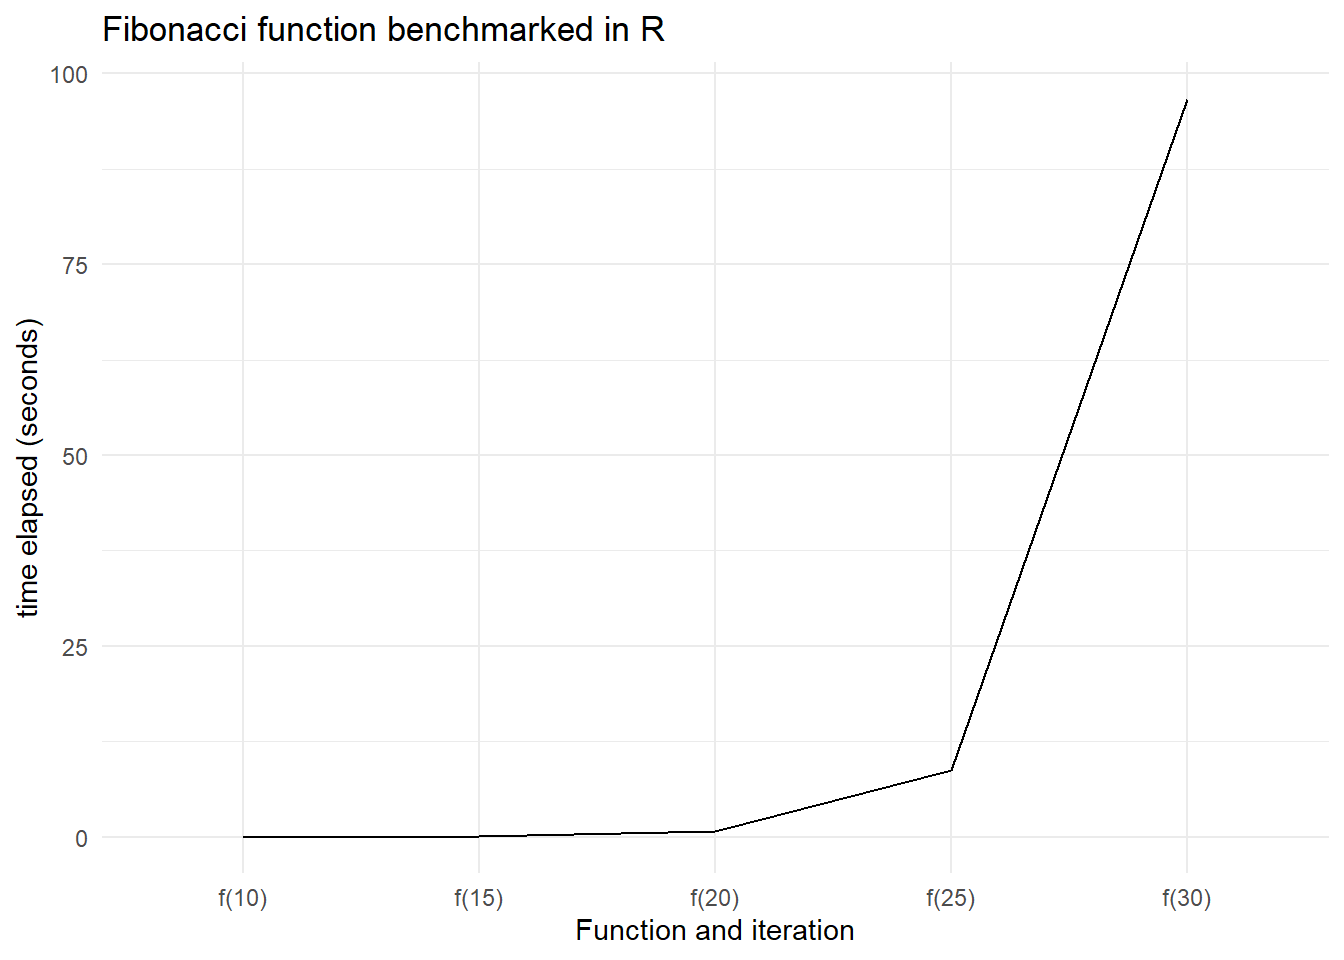
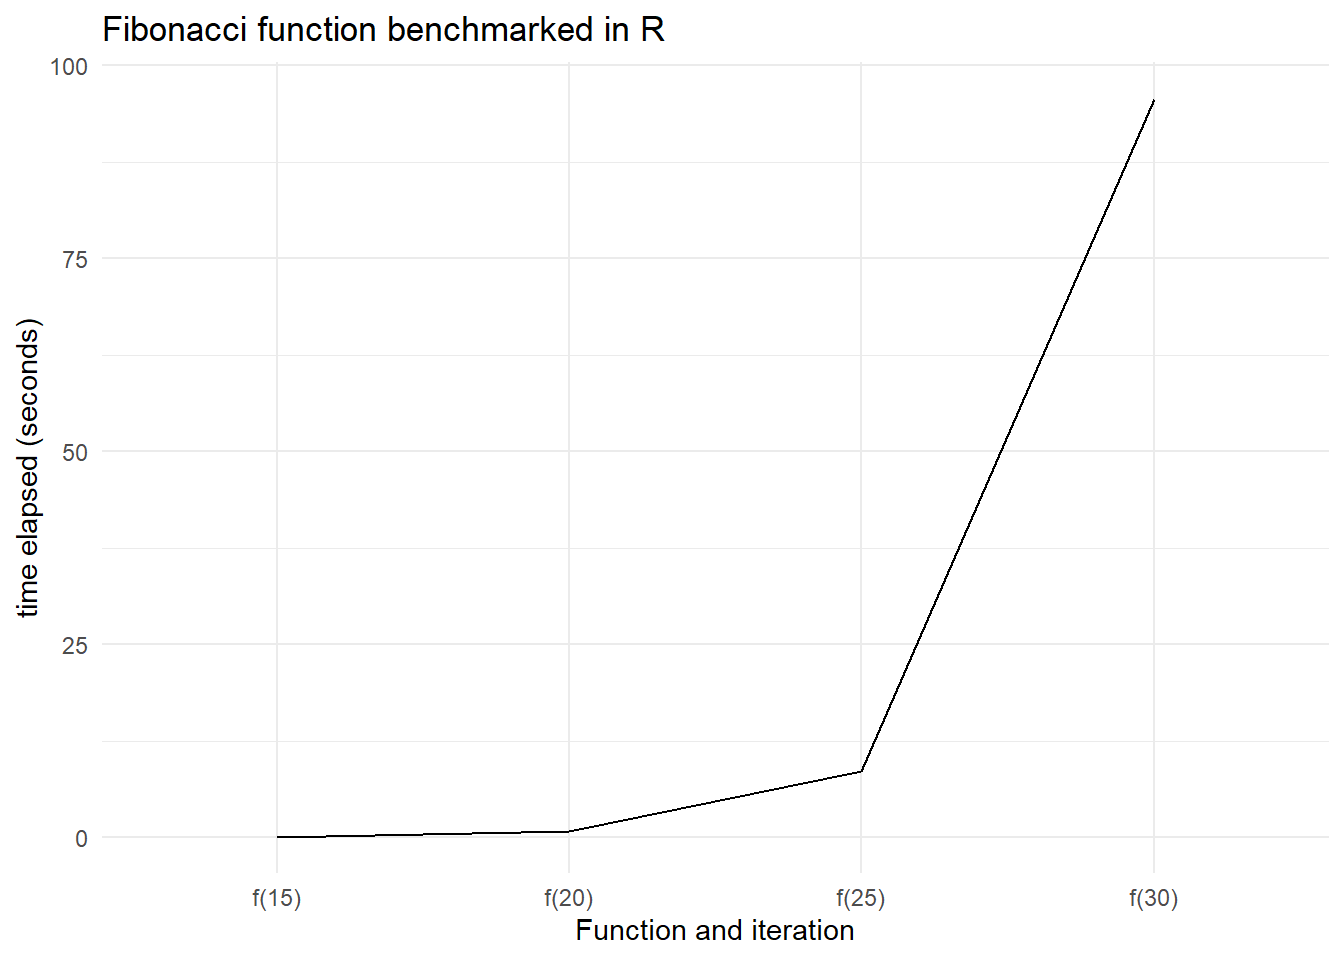
automated commit

diff --git a/public/2021/03/23/rcpp-integration/index.html b/public/2021/03/23/rcpp-integration/index.html
@@ -97,11 +97,11 @@ sapply(1:10, f)</code></pre>
 
 Rscores</code></pre>
 <pre><code>##    test replications elapsed relative
-## 1 f(10)          100    0.01        1
-## 2 f(15)          100    0.10       10
-## 3 f(20)          100    0.79       79
-## 4 f(25)          100    8.78      878
-## 5 f(30)          100   96.68     9668</code></pre>
+## 1 f(10)          100    0.00       NA
+## 2 f(15)          100    0.08       NA
+## 3 f(20)          100    0.76       NA
+## 4 f(25)          100    8.58       NA
+## 5 f(30)          100   95.69       NA</code></pre>
 <pre class="r"><code>p &lt;- Rscores %&gt;% 
   filter(elapsed&gt;0) %&gt;% 
   ggplot(aes(test,elapsed, group = 1))+
@@ -131,8 +131,8 @@ Cscores</code></pre>
 ## 1 g(10)          100    0.00       NA
 ## 2 g(15)          100    0.00       NA
 ## 3 g(20)          100    0.00       NA
-## 4 g(25)          100    0.01       NA
-## 5 g(30)          100    0.24       NA</code></pre>
+## 4 g(25)          100    0.03       NA
+## 5 g(30)          100    0.22       NA</code></pre>
 <pre class="r"><code>p &lt;- Cscores %&gt;% 
   ggplot(aes(test,elapsed, group = 1))+
   geom_line()+ theme_minimal()+
@@ -146,7 +146,7 @@ print(p)</code></pre>
 </div>
 <div id="conclusion" class="section level1">
 <h1>Conclusion</h1>
-<p>The speed in calculating the 30th iteration of the Fibonacci sequence within C++ (0.24 seconds) massively outperforms R (96.68 seconds).</p>
+<p>The speed in calculating the 30th iteration of the Fibonacci sequence within C++ (0.22 seconds) massively outperforms R (95.69 seconds).</p>
 <div id="pushing-c-further" class="section level2">
 <h2>Pushing C++ further</h2>
 <pre class="r"><code>Cscores &lt;- benchmark(g(10),g(15), g(20), g(25),g(30),g(35),g(40))[,1:4]

diff --git a/content/post/2021-03-23-rcpp-integration/index.html b/content/post/2021-03-23-rcpp-integration/index.html
@@ -29,11 +29,11 @@ sapply(1:10, f)</code></pre>
 
 Rscores</code></pre>
 <pre><code>##    test replications elapsed relative
-## 1 f(10)          100    0.01        1
-## 2 f(15)          100    0.10       10
-## 3 f(20)          100    0.79       79
-## 4 f(25)          100    8.78      878
-## 5 f(30)          100   96.68     9668</code></pre>
+## 1 f(10)          100    0.00       NA
+## 2 f(15)          100    0.08       NA
+## 3 f(20)          100    0.76       NA
+## 4 f(25)          100    8.58       NA
+## 5 f(30)          100   95.69       NA</code></pre>
 <pre class="r"><code>p &lt;- Rscores %&gt;% 
   filter(elapsed&gt;0) %&gt;% 
   ggplot(aes(test,elapsed, group = 1))+
@@ -63,8 +63,8 @@ Cscores</code></pre>
 ## 1 g(10)          100    0.00       NA
 ## 2 g(15)          100    0.00       NA
 ## 3 g(20)          100    0.00       NA
-## 4 g(25)          100    0.01       NA
-## 5 g(30)          100    0.24       NA</code></pre>
+## 4 g(25)          100    0.03       NA
+## 5 g(30)          100    0.22       NA</code></pre>
 <pre class="r"><code>p &lt;- Cscores %&gt;% 
   ggplot(aes(test,elapsed, group = 1))+
   geom_line()+ theme_minimal()+
@@ -78,7 +78,7 @@ print(p)</code></pre>
 </div>
 <div id="conclusion" class="section level1">
 <h1>Conclusion</h1>
-<p>The speed in calculating the 30th iteration of the Fibonacci sequence within C++ (0.24 seconds) massively outperforms R (96.68 seconds).</p>
+<p>The speed in calculating the 30th iteration of the Fibonacci sequence within C++ (0.22 seconds) massively outperforms R (95.69 seconds).</p>
 <div id="pushing-c-further" class="section level2">
 <h2>Pushing C++ further</h2>
 <pre class="r"><code>Cscores &lt;- benchmark(g(10),g(15), g(20), g(25),g(30),g(35),g(40))[,1:4]

diff --git a/content/post/2021-08-05-tidy-models/index.html b/content/post/2021-08-05-tidy-models/index.html
@@ -23,7 +23,7 @@ library(dotwhisker)  # for visualizing regression results</code></pre>
   setNames(c(&quot;food_regime&quot;, &quot;initial_volume&quot;, &quot;width&quot;)) |&gt;  
   mutate(food_regime = factor(food_regime, levels = c(&quot;Initial&quot;, &quot;Low&quot;, &quot;High&quot;)))</code></pre>
 <pre><code>## 
-## -- Column specification --------------------------------------------------------
+## -- Column specification ------------------------------------------------------------------------------------------------
 ## cols(
 ##   TREAT = col_character(),
 ##   IV = col_double(),

diff --git a/public/2021/08/05/tidy-models/index.html b/public/2021/08/05/tidy-models/index.html
@@ -91,7 +91,7 @@ library(dotwhisker)  # for visualizing regression results</code></pre>
   setNames(c(&quot;food_regime&quot;, &quot;initial_volume&quot;, &quot;width&quot;)) |&gt;  
   mutate(food_regime = factor(food_regime, levels = c(&quot;Initial&quot;, &quot;Low&quot;, &quot;High&quot;)))</code></pre>
 <pre><code>## 
-## -- Column specification --------------------------------------------------------
+## -- Column specification ------------------------------------------------------------------------------------------------
 ## cols(
 ##   TREAT = col_character(),
 ##   IV = col_double(),
